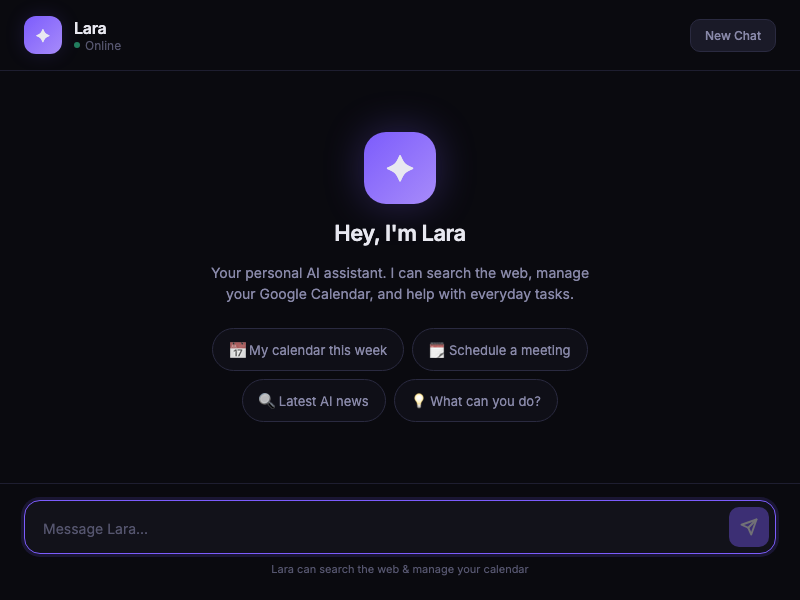
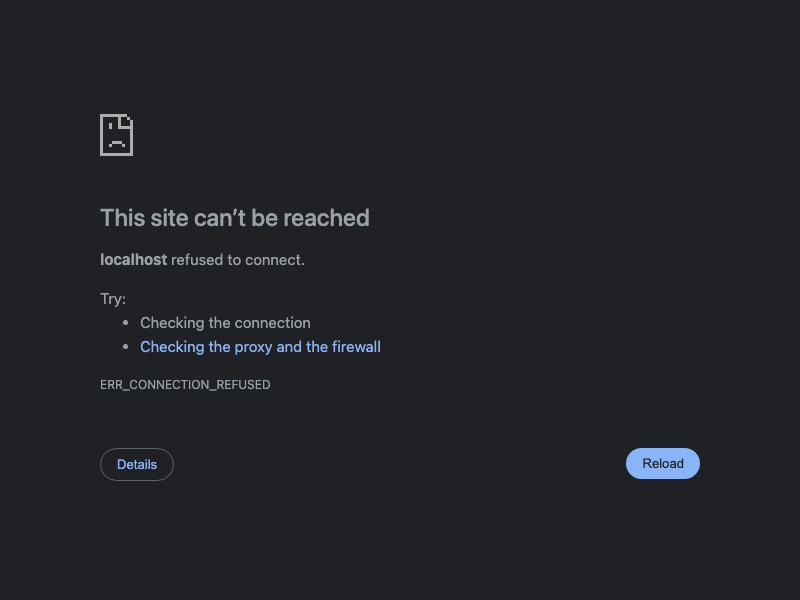
fix Google branding verification issues

diff --git a/public/index.html b/public/index.html
@@ -4,9 +4,10 @@
 <head>
     <meta charset="UTF-8">
     <meta name="viewport" content="width=device-width, initial-scale=1.0">
-    <title>Lara — Personal Assistant</title>
+    <title>Lara - Personal Assistance</title>
     <meta name="description"
-        content="Lara is your AI-powered personal assistant with Google Calendar integration and web search.">
+        content="Lara - Personal Assistance is an AI-powered personal assistant designed to manage your Google Calendar events and web search.">
+    <link rel="icon" type="image/png" href="logo.png">
     <link href="https://fonts.googleapis.com/css2?family=Inter:wght@400;500;600;700&display=swap" rel="stylesheet">
     <script src="https://cdn.jsdelivr.net/npm/marked/marked.min.js"></script>
     <style>
@@ -90,12 +91,19 @@
             width: 38px;
             height: 38px;
             border-radius: 12px;
-            background: linear-gradient(135deg, var(--accent), #a78bfa);
+            overflow: hidden;
             display: flex;
             align-items: center;
             justify-content: center;
-            font-size: 18px;
             box-shadow: 0 0 20px var(--accent-glow);
+            background: var(--bg-tertiary);
+            border: 1px solid var(--border);
+        }
+
+        .avatar-img {
+            width: 100%;
+            height: 100%;
+            object-fit: cover;
         }
 
         .header-info h1 {
@@ -337,15 +345,22 @@
         }
 
         .welcome-icon {
-            width: 72px;
-            height: 72px;
-            border-radius: 22px;
-            background: linear-gradient(135deg, var(--accent), #a78bfa);
+            width: 80px;
+            height: 80px;
+            border-radius: 24px;
             display: flex;
             align-items: center;
             justify-content: center;
-            font-size: 36px;
-            box-shadow: 0 0 40px var(--accent-glow-strong);
+            box-shadow: 0 0 45px var(--accent-glow-strong);
+            overflow: hidden;
+            background: var(--bg-tertiary);
+            border: 1px solid var(--border);
+        }
+
+        .welcome-logo {
+            width: 100%;
+            height: 100%;
+            object-fit: cover;
         }
 
         .welcome h2 {
@@ -422,8 +437,16 @@
         }
 
         .msg-avatar.ai-avatar {
-            background: linear-gradient(135deg, var(--accent), #a78bfa);
+            background: var(--bg-tertiary);
             box-shadow: 0 0 12px var(--accent-glow);
+            overflow: hidden;
+            border: 1px solid var(--border);
+        }
+
+        .ai-avatar-img {
+            width: 100%;
+            height: 100%;
+            object-fit: cover;
         }
 
         .msg-avatar.user-avatar {
@@ -754,6 +777,25 @@
                 opacity: 1;
                 transform: translateY(0);
             }
+        /* ─── Footer Links (Google Verification) ──── */
+
+        .app-footer {
+            text-align: center;
+            padding: 10px 0 16px;
+            font-size: 12px;
+            color: var(--text-muted);
+        }
+
+        .app-footer a {
+            color: var(--text-secondary);
+            text-decoration: none;
+            margin: 0 4px;
+            transition: color var(--transition);
+        }
+
+        .app-footer a:hover {
+            color: var(--accent-hover);
+            text-decoration: underline;
         }
 
         /* ─── Responsive ──────────────────────────── */
@@ -789,9 +831,9 @@
         <!-- Header -->
         <header class="header" id="app-header">
             <div class="header-left">
-                <div class="avatar">✦</div>
+                <div class="avatar"><img src="logo.png" alt="Lara - Personal Assistance Logo" class="avatar-img"></div>
                 <div class="header-info">
-                    <h1>Lara</h1>
+                    <h1>Lara - Personal Assistance</h1>
                     <div class="status">
                         <span class="status-dot"></span>
                         Online
@@ -806,10 +848,9 @@
         <!-- Chat Messages -->
         <div class="chat-area" id="chat-area">
             <div class="welcome" id="welcome-screen">
-                <div class="welcome-icon">✦</div>
-                <h2>Hey, I'm Lara</h2>
-                <p>Your personal AI assistant. I can search the web, manage your Google Calendar, and help with everyday
-                    tasks.</p>
+                <div class="welcome-icon"><img src="logo.png" alt="Lara - Personal Assistance Logo" class="welcome-logo"></div>
+                <h2>Hey, I'm Lara - Personal Assistance</h2>
+                <p>Lara - Personal Assistance is an AI-powered assistant designed to manage your Google Calendar events, schedule meetings with video links, and help with everyday tasks.</p>
                 <div class="suggestions">
                     <button class="suggestion" data-msg="What's on my calendar this week?">📅 My calendar this
                         week</button>
@@ -856,8 +897,15 @@
                     </svg>
                 </button>
             </div>
-            <div class="input-hint">Lara can search the web & manage your calendar</div>
+            <div class="input-hint">Lara - Personal Assistance can search the web & manage your Google Calendar</div>
         </div>
+
+        <!-- Footer Privacy & Terms links -->
+        <footer class="app-footer">
+            <span>Lara - Personal Assistance</span> &bull; 
+            <a href="/privacy.html" target="_blank">Privacy Policy</a> &bull; 
+            <a href="/terms.html" target="_blank">Terms of Service</a>
+        </footer>
     </div>
 
     <script>
@@ -1044,7 +1092,11 @@
 
             const avatar = document.createElement('div');
             avatar.className = `msg-avatar ${role === 'ai' ? 'ai-avatar' : 'user-avatar'}`;
-            avatar.textContent = role === 'ai' ? '✦' : '•';
+            if (role === 'ai') {
+                avatar.innerHTML = '<img src="logo.png" alt="Lara" class="ai-avatar-img">';
+            } else {
+                avatar.textContent = '•';
+            }
 
             const bubble = document.createElement('div');
             bubble.className = 'bubble';
@@ -1069,7 +1121,7 @@
 
             const avatar = document.createElement('div');
             avatar.className = 'msg-avatar ai-avatar';
-            avatar.textContent = '✦';
+            avatar.innerHTML = '<img src="logo.png" alt="Lara" class="ai-avatar-img">';
 
             const bubble = document.createElement('div');
             bubble.className = 'typing-bubble';

diff --git a/public/privacy.html b/public/privacy.html
@@ -1,0 +1,69 @@
+<!DOCTYPE html>
+<html lang="en">
+<head>
+    <meta charset="UTF-8">
+    <meta name="viewport" content="width=device-width, initial-scale=1.0">
+    <title>Privacy Policy — Lara - Personal Assistance</title>
+    <link rel="icon" type="image/png" href="logo.png">
+    <link href="https://fonts.googleapis.com/css2?family=Inter:wght@400;500;600;700&display=swap" rel="stylesheet">
+    <style>
+        *, *::before, *::after { margin: 0; padding: 0; box-sizing: border-box; }
+        body {
+            font-family: 'Inter', sans-serif;
+            background: #0a0a0f;
+            color: #e8e8f0;
+            line-height: 1.6;
+            padding: 40px 20px;
+            max-width: 800px;
+            margin: 0 auto;
+        }
+        h1 { font-size: 28px; margin-bottom: 8px; color: #ffffff; }
+        .subtitle { color: #8888a8; margin-bottom: 30px; font-size: 14px; }
+        h2 { font-size: 18px; margin: 24px 0 12px; color: #7c5cfc; }
+        p, li { color: #c4c4dc; font-size: 14px; margin-bottom: 12px; }
+        ul { padding-left: 20px; margin-bottom: 16px; }
+        a { color: #9478ff; text-decoration: none; }
+        a:hover { text-decoration: underline; }
+        .container {
+            background: #12121a;
+            border: 1px solid #2a2a40;
+            padding: 32px;
+            border-radius: 16px;
+        }
+        .footer { margin-top: 30px; text-align: center; font-size: 12px; color: #55556e; }
+    </style>
+</head>
+<body>
+    <div class="container">
+        <h1>Privacy Policy</h1>
+        <div class="subtitle">Effective Date: July 30, 2026 | App: Lara - Personal Assistance</div>
+
+        <p>Welcome to <strong>Lara - Personal Assistance</strong>. We value your privacy and are committed to protecting your personal data.</p>
+
+        <h2>1. Purpose of the Application</h2>
+        <p><strong>Lara - Personal Assistance</strong> is an AI-powered personal assistant designed to help users interactively manage their Google Calendar events, schedule meetings, create Google Meet video links, and perform web searches.</p>
+
+        <h2>2. Information We Collect & Use</h2>
+        <p>When you authenticate using Google OAuth, we request read and write access to your Google Calendar scopes (<code>https://www.googleapis.com/auth/calendar</code>).</p>
+        <ul>
+            <li><strong>Google Refresh Token:</strong> Encrypted securely at rest using AES-256-GCM encryption in our database and used solely to fetch, create, update, or delete calendar events upon your direct prompt.</li>
+            <li><strong>Calendar Event Data:</strong> Event titles, descriptions, start/end times, location, and Google Meet video links are processed in-memory to display schedule details.</li>
+        </ul>
+
+        <h2>3. Google API Limited Use Disclosure</h2>
+        <p>Lara - Personal Assistance's use and transfer to any other app of information received from Google APIs will adhere to the <a href="https://developers.google.com/terms/api-services-user-data-policy#additional_requirements_for_specific_api_scopes" target="_blank">Google API Services User Data Policy</a>, including the Limited Use requirements.</p>
+
+        <h2>4. Data Storage & Security</h2>
+        <p>We do not share, sell, or rent your personal information or Google user data to third parties. All access tokens are strictly encrypted at rest and used only to execute the calendar operations requested by you during session interaction.</p>
+
+        <h2>5. Data Deletion & Revocation</h2>
+        <p>You can disconnect your Google Calendar at any time by clicking the <strong>Disconnect</strong> option in the application interface, or by revoking access directly through your <a href="https://myaccount.google.com/permissions" target="_blank">Google Account Permissions</a>.</p>
+
+        <h2>6. Contact Us</h2>
+        <p>If you have any questions regarding this Privacy Policy, please contact us via our project repository.</p>
+
+        <p><a href="/">← Back to Application</a></p>
+    </div>
+    <div class="footer">&copy; 2026 Lara - Personal Assistance. All rights reserved.</div>
+</body>
+</html>

diff --git a/public/terms.html b/public/terms.html
@@ -1,0 +1,56 @@
+<!DOCTYPE html>
+<html lang="en">
+<head>
+    <meta charset="UTF-8">
+    <meta name="viewport" content="width=device-width, initial-scale=1.0">
+    <title>Terms of Service — Lara - Personal Assistance</title>
+    <link rel="icon" type="image/png" href="logo.png">
+    <link href="https://fonts.googleapis.com/css2?family=Inter:wght@400;500;600;700&display=swap" rel="stylesheet">
+    <style>
+        *, *::before, *::after { margin: 0; padding: 0; box-sizing: border-box; }
+        body {
+            font-family: 'Inter', sans-serif;
+            background: #0a0a0f;
+            color: #e8e8f0;
+            line-height: 1.6;
+            padding: 40px 20px;
+            max-width: 800px;
+            margin: 0 auto;
+        }
+        h1 { font-size: 28px; margin-bottom: 8px; color: #ffffff; }
+        .subtitle { color: #8888a8; margin-bottom: 30px; font-size: 14px; }
+        h2 { font-size: 18px; margin: 24px 0 12px; color: #7c5cfc; }
+        p, li { color: #c4c4dc; font-size: 14px; margin-bottom: 12px; }
+        a { color: #9478ff; text-decoration: none; }
+        a:hover { text-decoration: underline; }
+        .container {
+            background: #12121a;
+            border: 1px solid #2a2a40;
+            padding: 32px;
+            border-radius: 16px;
+        }
+        .footer { margin-top: 30px; text-align: center; font-size: 12px; color: #55556e; }
+    </style>
+</head>
+<body>
+    <div class="container">
+        <h1>Terms of Service</h1>
+        <div class="subtitle">Effective Date: July 30, 2026 | App: Lara - Personal Assistance</div>
+
+        <h2>1. Acceptance of Terms</h2>
+        <p>By using <strong>Lara - Personal Assistance</strong>, you agree to these Terms of Service. If you do not agree, please do not use the application.</p>
+
+        <h2>2. Application Purpose</h2>
+        <p>Lara - Personal Assistance is designed to interactively assist users with managing Google Calendar events, scheduling meetings, and querying productivity tasks via conversational AI.</p>
+
+        <h2>3. User Responsibilities</h2>
+        <p>You are responsible for the calendar permissions granted to the application. You can revoke access at any time via Google Account settings.</p>
+
+        <h2>4. Disclaimer</h2>
+        <p>The application is provided "as is" without warranty of any kind. We are not liable for scheduling conflicts or missed appointments.</p>
+
+        <p><a href="/">← Back to Application</a></p>
+    </div>
+    <div class="footer">&copy; 2026 Lara - Personal Assistance. All rights reserved.</div>
+</body>
+</html>

diff --git a/server.js b/server.js
@@ -14,6 +14,16 @@ app.use(express.json());
 app.use(cors());
 app.use(express.static(path.join(__dirname, 'public')));
 
+// ─── Verification Routes ───────────────────────────────────
+
+app.get('/privacy', (req, res) => {
+    res.sendFile(path.join(__dirname, 'public', 'privacy.html'));
+});
+
+app.get('/terms', (req, res) => {
+    res.sendFile(path.join(__dirname, 'public', 'terms.html'));
+});
+
 // ─── Chat Endpoint ────────────────────────────────────────
 
 app.post('/chat', async (req, res) => {
